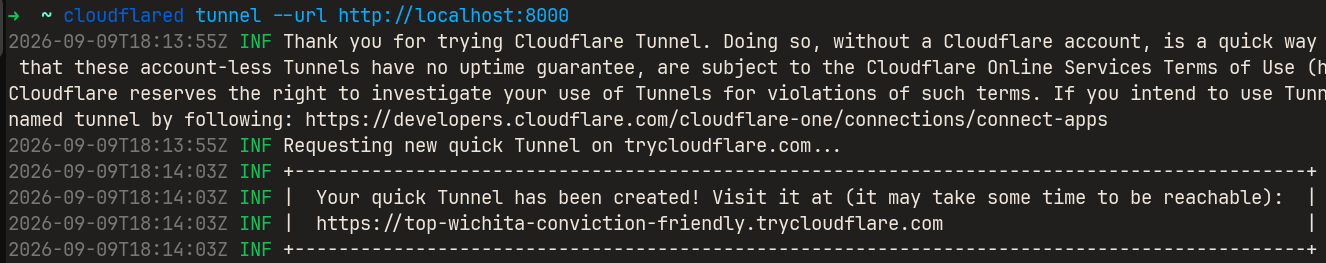
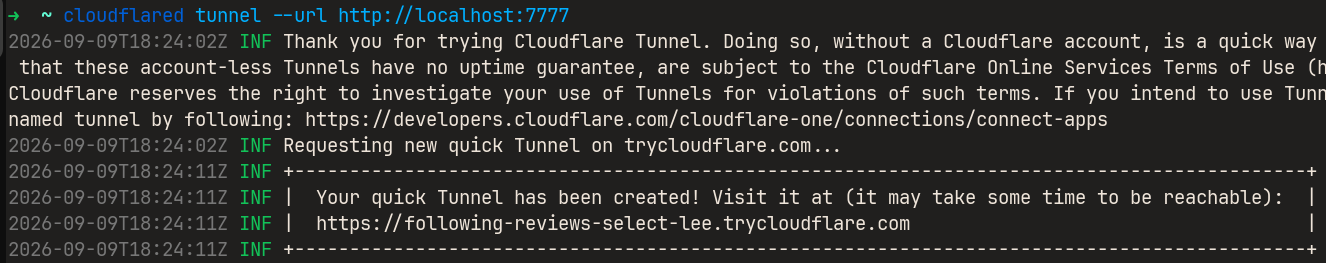
update images

diff --git a/README.md b/README.md
@@ -68,7 +68,7 @@ cloudflared tunnel --url http://localhost:7777
   <img src="docs/step2.png" alt="gossh" width="70%" />
 </p>
 
-**Copy the generated *HTTPS URL* (e.g., `https://xxxxx.ngrok-free.dev`)**
+**Copy the generated *HTTPS URL* (e.g., `https://xxxxx.trycloudflare.com`)**
 
 
 ###  3. Start gossh Client
@@ -77,7 +77,7 @@ On the client machine, connect to the server using the ngrok URL:
 
 ```bash
 gossh client \
-  --connect https://your-ngrok-url.ngrok-free.dev \
+  --connect https://following-reviews-select-lee.trycloudflare.com \
   --port 8888
 ```
 
